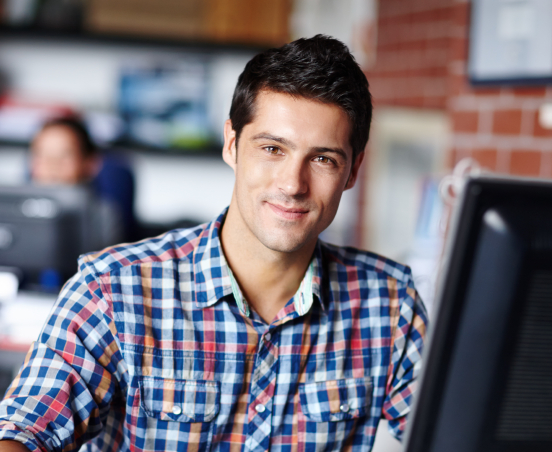
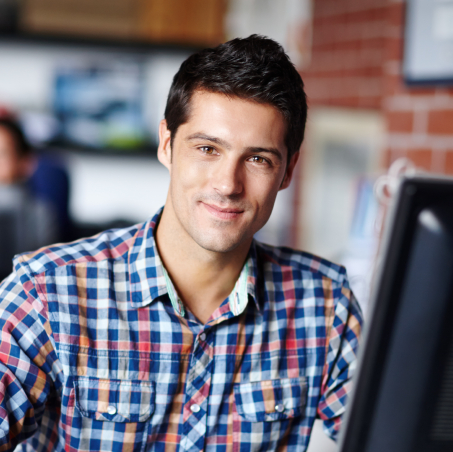
update with team and clients

diff --git a/index.html b/index.html
@@ -80,11 +80,7 @@
         <div class="services__title">
           <h2 class="services__title__header" data-aos="custom" data-aos-duration="1000" data-aos-delay="300">
             Profesjonalne Pozycjonowanie Stron</h2>
-<<<<<<< HEAD
-          <p class="p-style" data-aos="custom" data-aos-duration="1000" data-aos-delay="400">Najlepsza Agencja we Wrocławiu - Pozycjonowanie Stron</p>
-=======
           <p class="p-style" data-aos="custom" data-aos-duration="1000" data-aos-delay="400">Najlepsza Agencja z Wrocławia w Pozycjonowaniu Stron</p>
->>>>>>> refs/remotes/origin/master
         </div>
         <div class="services__features">
           <div class="feature" data-aos="custom" data-aos-duration="1000" data-aos-delay="500">
@@ -258,7 +254,7 @@
             </div>
             <div class="value__feature" data-aos="zoom-in" data-aos-duration="1000" data-aos-delay="200">
               <div class="value__picture" data-aos="flip-left" data-aos-duration="500" data-aos-delay="700">
-                <img src="img/specialista seo 3.png" alt="specialista seo">
+                <img src="img/specialista seo 4.png" alt="specialista seo">
               </div>
               <div class="value__desctription">
                 <h3 class="value__desctription__title">Ernest Piekany</h3>
@@ -274,18 +270,17 @@
           <h3 class="reviev__title__header">
             Zadowoleni Klienci z Pozycjonowania stron Wrocław
           </h3>
-          <p class="reviev__title__p-style">Proin iaculis purus consequat sem cure. </p>
+          <p class="reviev__title__p-style">Opinie naszych klientów to najlepsza nagroda z skutecznego pozycjonowania stron</p>
         </div>
         <div class="reviev__content">
           <div class="reviev__content__circle" data-aos="flip-left">
-            <img class="first-client-face" src="img/2009_meme.png" alt="meme">
+            <img class="first-client-face" src="img/client1.png" alt="meme">
           </div>
           <div class="reviev__content__text" data-aos="fade-left" data-aos-duration="1000" data-aos-delay="300">
             <img class="reviev__content__text__arrow1" src="img/testimonials_arrow.png" alt="testimonials_arrow">
             <div class="reviev__content__text__container">
-              <p class="reviev-text">“ Proin iaculis purus consequat sem cure digni ssim
-                donec porttitora entum suscipit aenean rhoncus. ” </p>
-              <p class="reviev-name">- Jamie Richardson, Founder of Cocoa Media</p>
+              <p class="reviev-text">“ Jestem bardzo zadowolona z współpracy z firmą Czyste SEO. Pierwsze efekty już widoczne a to dopiero początek. Zawsze pomocna i przesympatyczna obsługa.” </p>
+              <p class="reviev-name">- Marcelina Pokora, Włascicielka Salonu Jubilerskiego</p>
             </div>
           </div>
         </div>
@@ -293,14 +288,13 @@
           <div class="reviev__content__text">
             <div class="reviev__content__text__container" data-aos="fade-right" data-aos-duration="1000"
               data-aos-delay="300">
-              <p class="reviev-text">“ Proin iaculis purus consequat sem cure digni ssim
-                donec porttitora entum suscipit aenean rhoncus. ” </p>
-              <p class="reviev-name">- Kim Thompson, Founder of Rainel</p>
+              <p class="reviev-text">“ Korzystałem z usług Czyste SEO przy okazji otwierania nowego punktu sprzedaży. Miejsce zostało przyjęte z entuzjazmem i nie świeci pustkami, więc uważam kampanię pozycjonowania stron za udaną. Polecam tą firmę do tego typu reklam.”</p>
+              <p class="reviev-name">- Bartosz Lipski, Własciciel Komisu Samochodowego</p>
             </div>
             <img class="reviev__content__text__arrow2" src="img/testimonials_arrow.png" alt="testimonials_arrow">
           </div>
           <div class="reviev__content__circle" data-aos="flip-right">
-            <img class="second-client-face" src="img/2009_meme.png" alt="meme">
+            <img class="second-client-face" src="img/client2.png" alt="meme">
           </div>
         </div>
 

diff --git a/css/style.css b/css/style.css
@@ -690,13 +690,16 @@
           -webkit-align-items: center;
           -ms-flex-align: center;
           align-items: center;
-          width: calc(60px + (90 - 60) * ((100vw - 320px) / (1920 - 320)));
-          height: calc(60px + (90 - 60) * ((100vw - 320px) / (1920 - 320)));
+          width: 75%;
+
           margin: 0 auto; }
           .value-wrapper .value__features .value__feature .value__picture img {
-            display: block;
-            width: 100%;
-            height: 100%; }
+            display: block; 
+                display: block;
+                width: 100%;
+                border-radius: 50%;
+                transform: scale(.8);
+              }
         .value-wrapper .value__features .value__feature .value__desctription__title {
           color: #222;
           font-size: calc(15px + (18 - 15) * ((100vw - 320px) / (1920 - 320)));
@@ -777,15 +780,20 @@
       -ms-flex-pack: center;
       justify-content: center;
       padding: 20px;
-      background-color: #f9f9f9;
       -webkit-border-radius: 50%;
-      border-radius: 50%; }
+
+
+    }
+     .reviev .reviev__content__circle img{
+      border-radius: 50%; 
+     }
+
       .reviev .reviev__content__circle .first-client-face {
-        width: calc(70px + (180 - 70) * ((100vw - 320px) / (1920 - 320)));
-        height: calc(70px + (180 - 70) * ((100vw - 320px) / (1920 - 320))); }
+          width:55%;
+}
       .reviev .reviev__content__circle .second-client-face {
-        width: calc(70px + (180 - 70) * ((100vw - 320px) / (1920 - 320)));
-        height: calc(70px + (180 - 70) * ((100vw - 320px) / (1920 - 320)));
+          width:55%;
+}
         -webkit-transform: scaleX(-1);
         -ms-transform: scaleX(-1);
         transform: scaleX(-1); }
